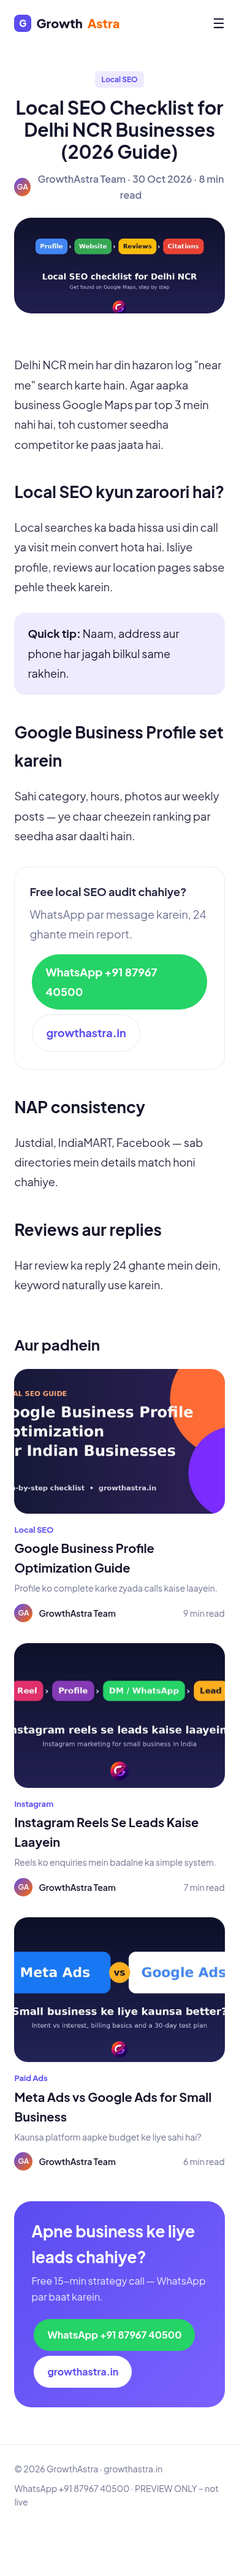
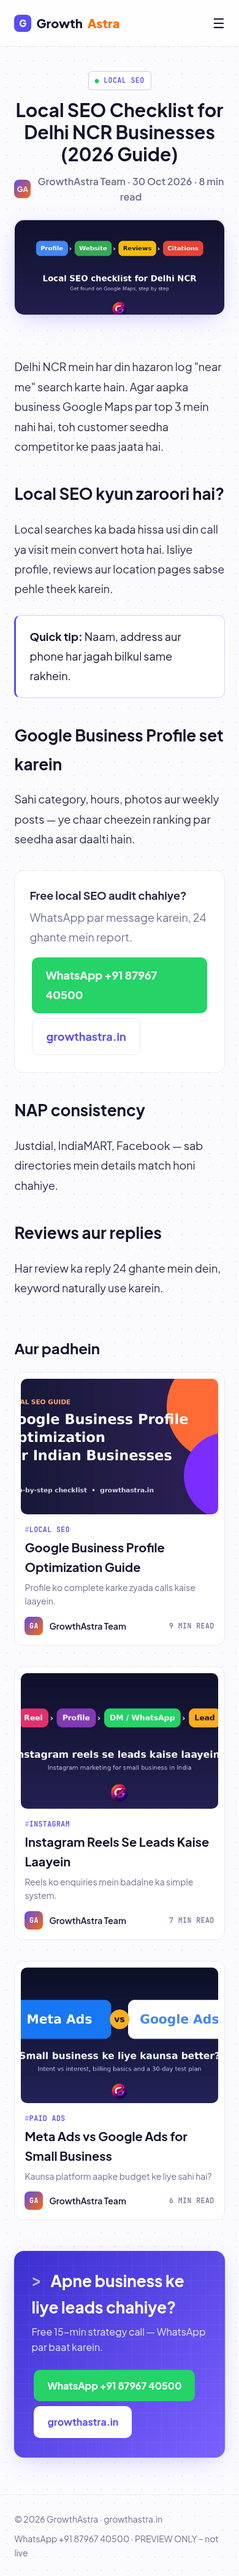
2026-10-31-blog-redesign v3 techy

diff --git a/2026-10-31-blog-redesign/index.html b/2026-10-31-blog-redesign/index.html
@@ -1,7 +1,7 @@
-<!doctype html><html><head><meta charset=utf-8><meta name=viewport content="width=device-width,initial-scale=1"><link rel=stylesheet href=blog.css><link href="https://fonts.googleapis.com/css2?family=Plus+Jakarta+Sans:wght@400;600;700;800&display=swap" rel=stylesheet><title>Blog – GrowthAstra (preview)</title></head><body><header class=top><a class=logo href=#><i>G</i>Growth<b>Astra</b></a><nav><a>Home</a><a>Services</a><a>Locations</a><a style="color:#5B4CF0">Blog</a><a>Pricing</a></nav><div class=acts><a class=ghost href=https://wa.me/918796740500>Contact Us</a><a class=prim href=https://growthastra.in>Free Audit</a></div><span class=burger>☰</span></header><div class=wrap>
+<!doctype html><html><head><meta charset=utf-8><meta name=viewport content="width=device-width,initial-scale=1"><link rel=stylesheet href=blog.css><link href="https://fonts.googleapis.com/css2?family=Plus+Jakarta+Sans:wght@400;600;700;800&family=JetBrains+Mono:wght@500;600&display=swap" rel=stylesheet><title>Blog – GrowthAstra (preview)</title></head><body><header class=top><a class=logo href=#><i>G</i>Growth<b>Astra</b></a><nav><a>Home</a><a>Services</a><a>Locations</a><a style="color:#5B4CF0">Blog</a><a>Pricing</a></nav><div class=acts><a class=ghost href=https://wa.me/918796740500>Contact Us</a><a class=prim href=https://growthastra.in>Free Audit</a></div><span class=burger>☰</span></header><div class=wrap>
 <section class=hero><span class=pill>Read Our Blog</span><h1>Browse Our Resources</h1><p>Growth tips aur practical guides for Indian businesses. For real.</p></section>
 <a class=feat href=post.html><img src=https://growthastra.in/uploads/1793340000_local-seo-checklist-delhi-ncr.jpg><span class=arrow>↗</span><div class=ov><h2>Local SEO Checklist for Delhi NCR Businesses (2026 Guide)</h2><p>Google Maps par top 3 mein aane ke liye step-by-step checklist.</p><div class=row><span class=au><span class=av>GA</span>GrowthAstra Team &nbsp;·&nbsp; 30 Oct 2026</span><span class=tags><span>Local SEO</span><span>Google Maps</span><span>Delhi NCR</span></span></div></div></a>
-<div class=bar><div class=chips><span>All</span><span class=on>SEO<sup>3</sup></span><span>Meta Ads</span><span>Instagram</span><span>Local SEO</span><span>AI Marketing</span></div><div class=search>Search blog... <span>⌕</span></div></div>
+<div class=bar><div class=chips><span class=on>All</span><span>SEO<sup>3</sup></span><span>Meta Ads</span><span>Instagram</span><span>Local SEO</span><span>AI Marketing</span></div><div class=search>⌕ search_blog... <span>⌘K</span></div></div>
 <div class=grid>
 <a class=card href=post.html><img src=https://growthastra.in/uploads/1793080000_instagram-marketing-small-business.jpg><span class=cat>Instagram</span><h3>Instagram Reels Se Leads Kaise Laayein</h3><p>Reels ko enquiries mein badalne ka simple system.</p><div class=row><span class=au><span class=av>GA</span>GrowthAstra Team</span><span>7 min read</span></div></a>
 <a class=card href=post.html><img src=https://growthastra.in/uploads/1792760000_meta-ads-vs-google-ads.jpg><span class=cat>Paid Ads</span><h3>Meta Ads vs Google Ads for Small Business</h3><p>Kaunsa platform aapke budget ke liye sahi hai?</p><div class=row><span class=au><span class=av>GA</span>GrowthAstra Team</span><span>6 min read</span></div></a>
@@ -9,4 +9,5 @@
 <a class=card href=post.html><img src=https://growthastra.in/uploads/1783506954_meta-ads-management.png><span class=cat>Meta Ads</span><h3>Meta Ads Guide 2026: More Leads & Sales</h3><p>Targeting, creatives aur budget — sab ek jagah.</p><div class=row><span class=au><span class=av>GA</span>GrowthAstra Team</span><span>8 min read</span></div></a>
 <a class=card href=post.html><img src=https://growthastra.in/uploads/1782991472_ai-seo.png><span class=cat>AI Marketing</span><h3>AI SEO Guide 2026: Rank Higher with AI</h3><p>AI tools se content aur ranking kaise improve karein.</p><div class=row><span class=au><span class=av>GA</span>GrowthAstra Team</span><span>7 min read</span></div></a>
 <a class=card href=post.html><img src=https://growthastra.in/uploads/1793340000_local-seo-checklist-delhi-ncr.jpg><span class=cat>Local SEO</span><h3>Local SEO Checklist for Delhi NCR</h3><p>Maps ranking ke liye 20-point checklist.</p><div class=row><span class=au><span class=av>GA</span>GrowthAstra Team</span><span>8 min read</span></div></a>
-</div><div class=count>Showing 6 of 6 results</div><div class=cta><div><h3>Apne business ke liye leads chahiye?</h3><p>Free 15-min strategy call — WhatsApp par baat karein.</p></div><div><a class="btn wa" href="https://wa.me/918796740500">WhatsApp +91 87967 40500</a><a class="btn site" href="https://growthastra.in">growthastra.in</a></div></div></div><footer><span>© 2026 GrowthAstra · growthastra.in</span><span>WhatsApp +91 87967 40500 · PREVIEW ONLY – not live</span></footer></body></html>
+</div><div class=count>[ 06 / 06 ] results loaded</div><div class=cta><div><h3>Apne business ke liye leads chahiye?</h3><p>Free 15-min strategy call — WhatsApp par baat karein.</p></div><div><a class="btn wa" href="https://wa.me/918796740500">WhatsApp +91 87967 40500</a><a class="btn site" href="https://growthastra.in">growthastra.in</a></div></div></div><footer><span>© 2026 GrowthAstra · growthastra.in</span><span>WhatsApp +91 87967 40500 · PREVIEW ONLY – not live</span></footer></body></html>
+<script>document.querySelectorAll('.chips span').forEach(c=>c.onclick=()=>{document.querySelectorAll('.chips span').forEach(x=>x.classList.remove('on'));c.classList.add('on');const t=c.firstChild.textContent.trim().toLowerCase();document.querySelectorAll('.grid .card').forEach(k=>{const cat=k.querySelector('.cat').textContent.toLowerCase();k.style.display=(t=='all'||cat.includes(t)||(t=='seo'&&cat.includes('seo')))?'':'none'})});</script>

diff --git a/2026-10-31-blog-redesign/blog.css b/2026-10-31-blog-redesign/blog.css
@@ -44,3 +44,32 @@ article{max-width:700px;font-size:18px;line-height:1.8;color:#2b2b45}article h2{
 article blockquote{margin:26px 0;padding:18px 22px;background:var(--al);border-radius:18px;color:var(--ink)}
 .mini{border:1px solid var(--line);border-radius:22px;padding:24px;margin:34px 0}.mini .site{border:1px solid var(--line)}
 @media(max-width:860px){.top nav,.acts{display:none}.burger{display:block}.grid,.layout{grid-template-columns:1fr}.toc{display:none}.feat{aspect-ratio:3/4}.feat .ov{padding:22px}.tags{margin-top:8px}.tags span{margin:0 6px 0 0}.search{width:100%}.bar{flex-direction:column-reverse;align-items:stretch}.cta{padding:28px}}
+/* ===== v3 techy layer ===== */
+:root{--mono:"JetBrains Mono",ui-monospace,monospace;--glow:0 0 0 1px rgba(91,76,240,.10),0 10px 40px -12px rgba(91,76,240,.35)}
+body{background:#fbfbfe;background-image:radial-gradient(rgba(91,76,240,.13) 1px,transparent 1px);background-size:22px 22px}
+body:before{content:"";position:fixed;inset:-20% -10% auto auto;width:620px;height:620px;background:radial-gradient(circle,rgba(123,97,255,.18),transparent 65%);pointer-events:none;z-index:-1}
+.top{position:sticky;top:0;z-index:9;background:rgba(255,255,255,.78);backdrop-filter:blur(12px);border-bottom:1px solid var(--line)}
+.acts a{border-radius:10px}.prim{box-shadow:0 6px 20px -6px rgba(91,76,240,.7)}
+.pill,.cat,.chips sup,.count,.card .row span:last-child,.tags span,.toc b,.meta-mono{font-family:var(--mono);letter-spacing:.04em;text-transform:uppercase;font-size:11.5px}
+.pill{border:1px solid rgba(91,76,240,.3);background:#fff;padding:5px 10px}.pill:before{content:"● ";color:#22c55e}
+.hero h1{background:linear-gradient(90deg,#14142B 40%,#5B4CF0);-webkit-background-clip:text;color:transparent}
+.hero p:after{content:" _";color:var(--a);font-family:var(--mono);animation:bl 1s steps(2) infinite}@keyframes bl{50%{opacity:0}}
+.feat{border-radius:16px;box-shadow:var(--glow);border:1px solid rgba(91,76,240,.25)}
+.feat img{filter:blur(9px) brightness(.8) saturate(1.1);transform:scale(1.05)}
+.feat:after{content:"";position:absolute;inset:0;background:linear-gradient(180deg,rgba(20,16,60,.35),rgba(12,10,35,.88));pointer-events:none}
+.feat .ov,.feat .arrow{z-index:2}.feat .ov{background:none;padding:40px}
+.feat .ov:before{content:"// FEATURED  ·  LATEST";display:block;font-family:var(--mono);font-size:12px;letter-spacing:.12em;color:#b9adff;margin-bottom:10px}
+.feat h2{font-size:clamp(24px,3.2vw,38px);max-width:760px}
+.arrow{width:42px;height:42px;border:1px solid #ffffff55;border-radius:10px;display:grid;place-items:center;background:rgba(255,255,255,.08)}
+.chips span{font-size:14px}.search{border-radius:10px;background:#fff;font-family:var(--mono);font-size:13px}
+.search span{border:1px solid var(--line);border-radius:6px;padding:0 6px;font-size:11px}
+.card{display:block;background:rgba(255,255,255,.85);border:1px solid var(--line);border-radius:14px;padding:10px 10px 16px;transition:.25s}
+.card:hover{border-color:rgba(91,76,240,.45);box-shadow:var(--glow);transform:translateY(-3px)}.card:hover img{transform:none;box-shadow:none}
+.card img{border-radius:10px}.card .cat,.card h3,.card p,.card .row{padding:0 6px}
+.cat:before{content:"#";opacity:.6}.av{border-radius:8px}
+.cta{border-radius:16px;background:#14142B;background-image:linear-gradient(rgba(255,255,255,.05) 1px,transparent 1px),linear-gradient(90deg,rgba(255,255,255,.05) 1px,transparent 1px),linear-gradient(135deg,#3b2fd0,#7B61FF);background-size:24px 24px,24px 24px,auto;box-shadow:var(--glow)}
+.cta h3:before{content:"> ";font-family:var(--mono);color:#c8bdff}.btn{border-radius:10px}
+.cover img{border-radius:16px;border:1px solid var(--line);box-shadow:var(--glow)}
+.toc{border-radius:14px;background:#fff}.toc a{border-left:2px solid var(--line);border-radius:0 8px 8px 0}.toc a.on{border-color:var(--a)}
+article blockquote{border:1px solid rgba(91,76,240,.25);border-left:3px solid var(--a);border-radius:10px;background:#fff}
+.mini{border-radius:14px;background:#fff}

diff --git a/2026-10-31-blog-redesign/post.html b/2026-10-31-blog-redesign/post.html
@@ -1,4 +1,4 @@
-<!doctype html><html><head><meta charset=utf-8><meta name=viewport content="width=device-width,initial-scale=1"><link rel=stylesheet href=blog.css><link href="https://fonts.googleapis.com/css2?family=Plus+Jakarta+Sans:wght@400;600;700;800&display=swap" rel=stylesheet><title>Local SEO Checklist – GrowthAstra (preview)</title></head><body><header class=top><a class=logo href=#><i>G</i>Growth<b>Astra</b></a><nav><a>Home</a><a>Services</a><a>Locations</a><a style="color:#5B4CF0">Blog</a><a>Pricing</a></nav><div class=acts><a class=ghost href=https://wa.me/918796740500>Contact Us</a><a class=prim href=https://growthastra.in>Free Audit</a></div><span class=burger>☰</span></header>
+<!doctype html><html><head><meta charset=utf-8><meta name=viewport content="width=device-width,initial-scale=1"><link rel=stylesheet href=blog.css><link href="https://fonts.googleapis.com/css2?family=Plus+Jakarta+Sans:wght@400;600;700;800&family=JetBrains+Mono:wght@500;600&display=swap" rel=stylesheet><title>Local SEO Checklist – GrowthAstra (preview)</title></head><body><header class=top><a class=logo href=#><i>G</i>Growth<b>Astra</b></a><nav><a>Home</a><a>Services</a><a>Locations</a><a style="color:#5B4CF0">Blog</a><a>Pricing</a></nav><div class=acts><a class=ghost href=https://wa.me/918796740500>Contact Us</a><a class=prim href=https://growthastra.in>Free Audit</a></div><span class=burger>☰</span></header>
 <div class=ph><span class=pill>Local SEO</span><h1>Local SEO Checklist for Delhi NCR Businesses (2026 Guide)</h1><div class=au><span class=av>GA</span>GrowthAstra Team · 30 Oct 2026 · 8 min read</div></div>
 <div class=cover><img src=https://growthastra.in/uploads/1793340000_local-seo-checklist-delhi-ncr.jpg></div>
 <div class=layout><nav class=toc><b>Is guide mein</b><a class=on>Why local SEO</a><a>Google Business Profile</a><a>NAP consistency</a><a>Reviews</a></nav>
